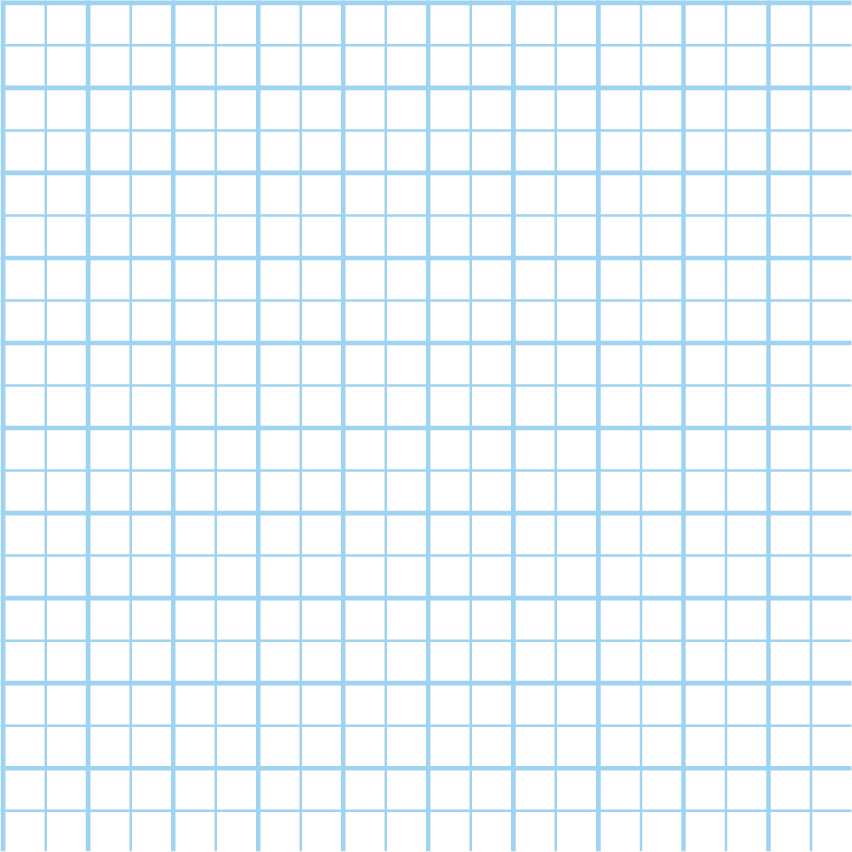
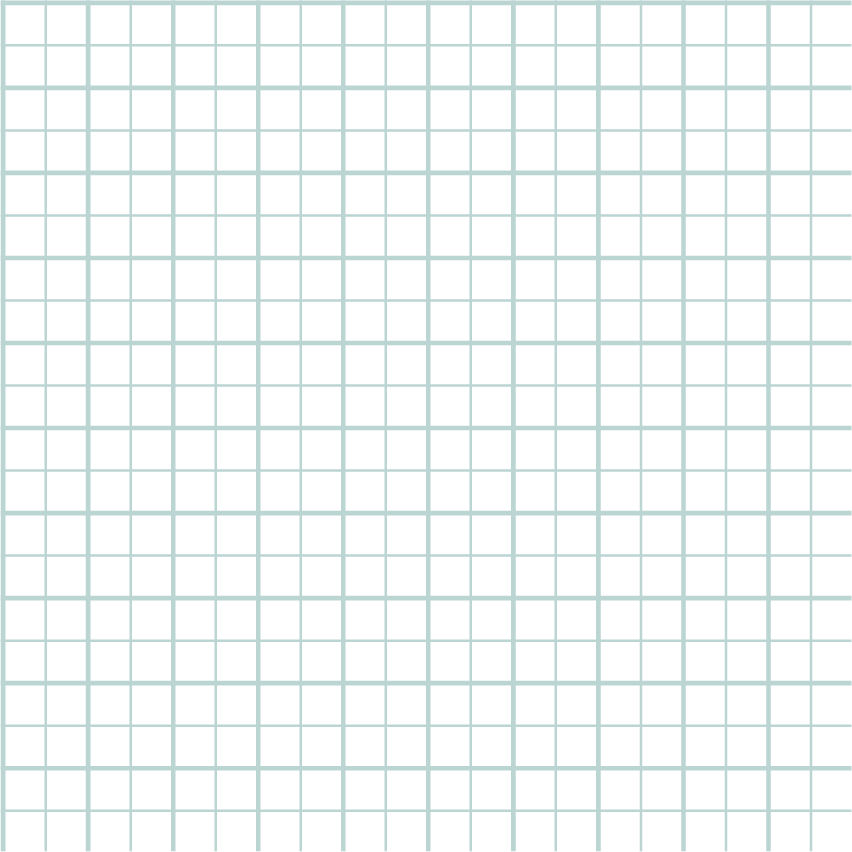
changed character artwork and color theme

diff --git a/css/onstart.css b/css/onstart.css
@@ -1,7 +1,7 @@
 body {
     background-image: url(../images/background.png);
     background-repeat: repeat;
-    background-color: paleturquoise;
+    background-color: rgb(223, 255, 241)
 }
 
 h1#ready {
@@ -88,17 +88,18 @@ h1#scoreCount {
 } */
 
 #playerOne {
-  width: 5%;
-  min-width: 60px;
+  width: 8%;
+  min-width: 100px;
   max-width: 150px;
   position: absolute;
   transform: translate(-75%, -32%);
-  left: 80%;
+  left: 78%;
   top: 40%;
 }
 
 #baseOne {
   width: 10%;
+  min-width: 100px;
   position: absolute;
   transform: translate(-75%, -32%);
   left: 78%;
@@ -138,58 +139,22 @@ h1#scoreCount {
 
 
 @keyframes characterPulse {
-  0%
-  {
-    transform: scale( .90 ) rotate(-45deg);
-  }
-  20%
-  {
-    transform: scale( 1 ) rotate(-46deg);
-  }
-  40%
-  {
-    transform: scale( .90 ) rotate(-47deg)
-  }
-  60%
-  {
-    transform: scale( 1 ) rotate(-45deg)
-  }
-  80%
-  {
-    transform: scale( .90 ) rotate(-44deg)
-  }
-  100%
-  {
-    transform: scale( .90 ) rotate(-43deg);
-  }
+  0% {transform: scale( .90 ) rotate(0deg);}
+  20% {transform: scale( 1 ) rotate(4deg);}
+  40% {transform: scale( .90 ) rotate(0deg)}
+  60% {transform: scale( 1 ) rotate(-4deg)}
+  80% {transform: scale( .90 ) rotate(0deg)}
+  100% {transform: scale( .90 ) rotate(0deg);}
 }
 
 
 @keyframes pulse {
-        0%
-        {
-          transform: scale( .90 );
-        }
-        20%
-        {
-          transform: scale( 1 );
-        }
-        40%
-        {
-          transform: scale( .90 );
-        }
-        60%
-        {
-          transform: scale( 1 );
-        }
-        80%
-        {
-          transform: scale( .90 );
-        }
-        100%
-        {
-          transform: scale( .90 );
-        }
+        0% {transform: scale( .90 );}
+        20% {transform: scale( 1 );}
+        40% {transform: scale( .90 );}
+        60% {transform: scale( 1 );}
+        80% {transform: scale( .90 );}
+        100% {transform: scale( .90 );}
 }
 
 @keyframes pulse2 {

diff --git a/onstart.js b/onstart.js
@@ -1,0 +1,54 @@
+let word = "hello";
+
+function randomLetters (word) {
+    let characters = word.length;
+    for (var i = 0; i < characters; i++) {
+        let result = word.charAt(i)
+        image(result)
+    }
+}
+
+function randomAlphabet () {
+    let alphabet = "abcdefghijklmnopqrstuvwxyz"
+    for (var i = 0; i < alphabet.length; i++) {
+        let result = alphabet.charAt(Math.floor(Math.random() * 26));
+        image(result)
+    }
+}
+
+function image (result) {
+    let folder = "Images/";
+    let fileType = ".png";
+
+    let imageName = folder + result + fileType
+    addImage(imageName)
+} 
+
+
+function randomLocation () {
+    let x = document.documentElement.clientWidth;
+    let y = document.documentElement.clientHeight;
+
+    let randomX = (x / 20) + Math.floor(Math.random() * (x / 8));
+    let randomY =(y / 20) + Math.floor(Math.random() * (y - (y / 6)));
+
+    return [randomX, randomY]
+}
+
+function addImage (imageName) {
+    let img = document.createElement("img");
+    img.setAttribute("id", "alphabet")
+    img.setAttribute("style", "position: absolute;");
+    img.setAttribute("src", imageName)
+    
+    let xy = randomLocation()
+    img.style.left = xy[0] + 'px';
+    img.style.top = xy[1] + 'px';
+
+    document.getElementById("body").appendChild(img);
+}
+
+
+
+randomLetters(word)
+randomAlphabet()
